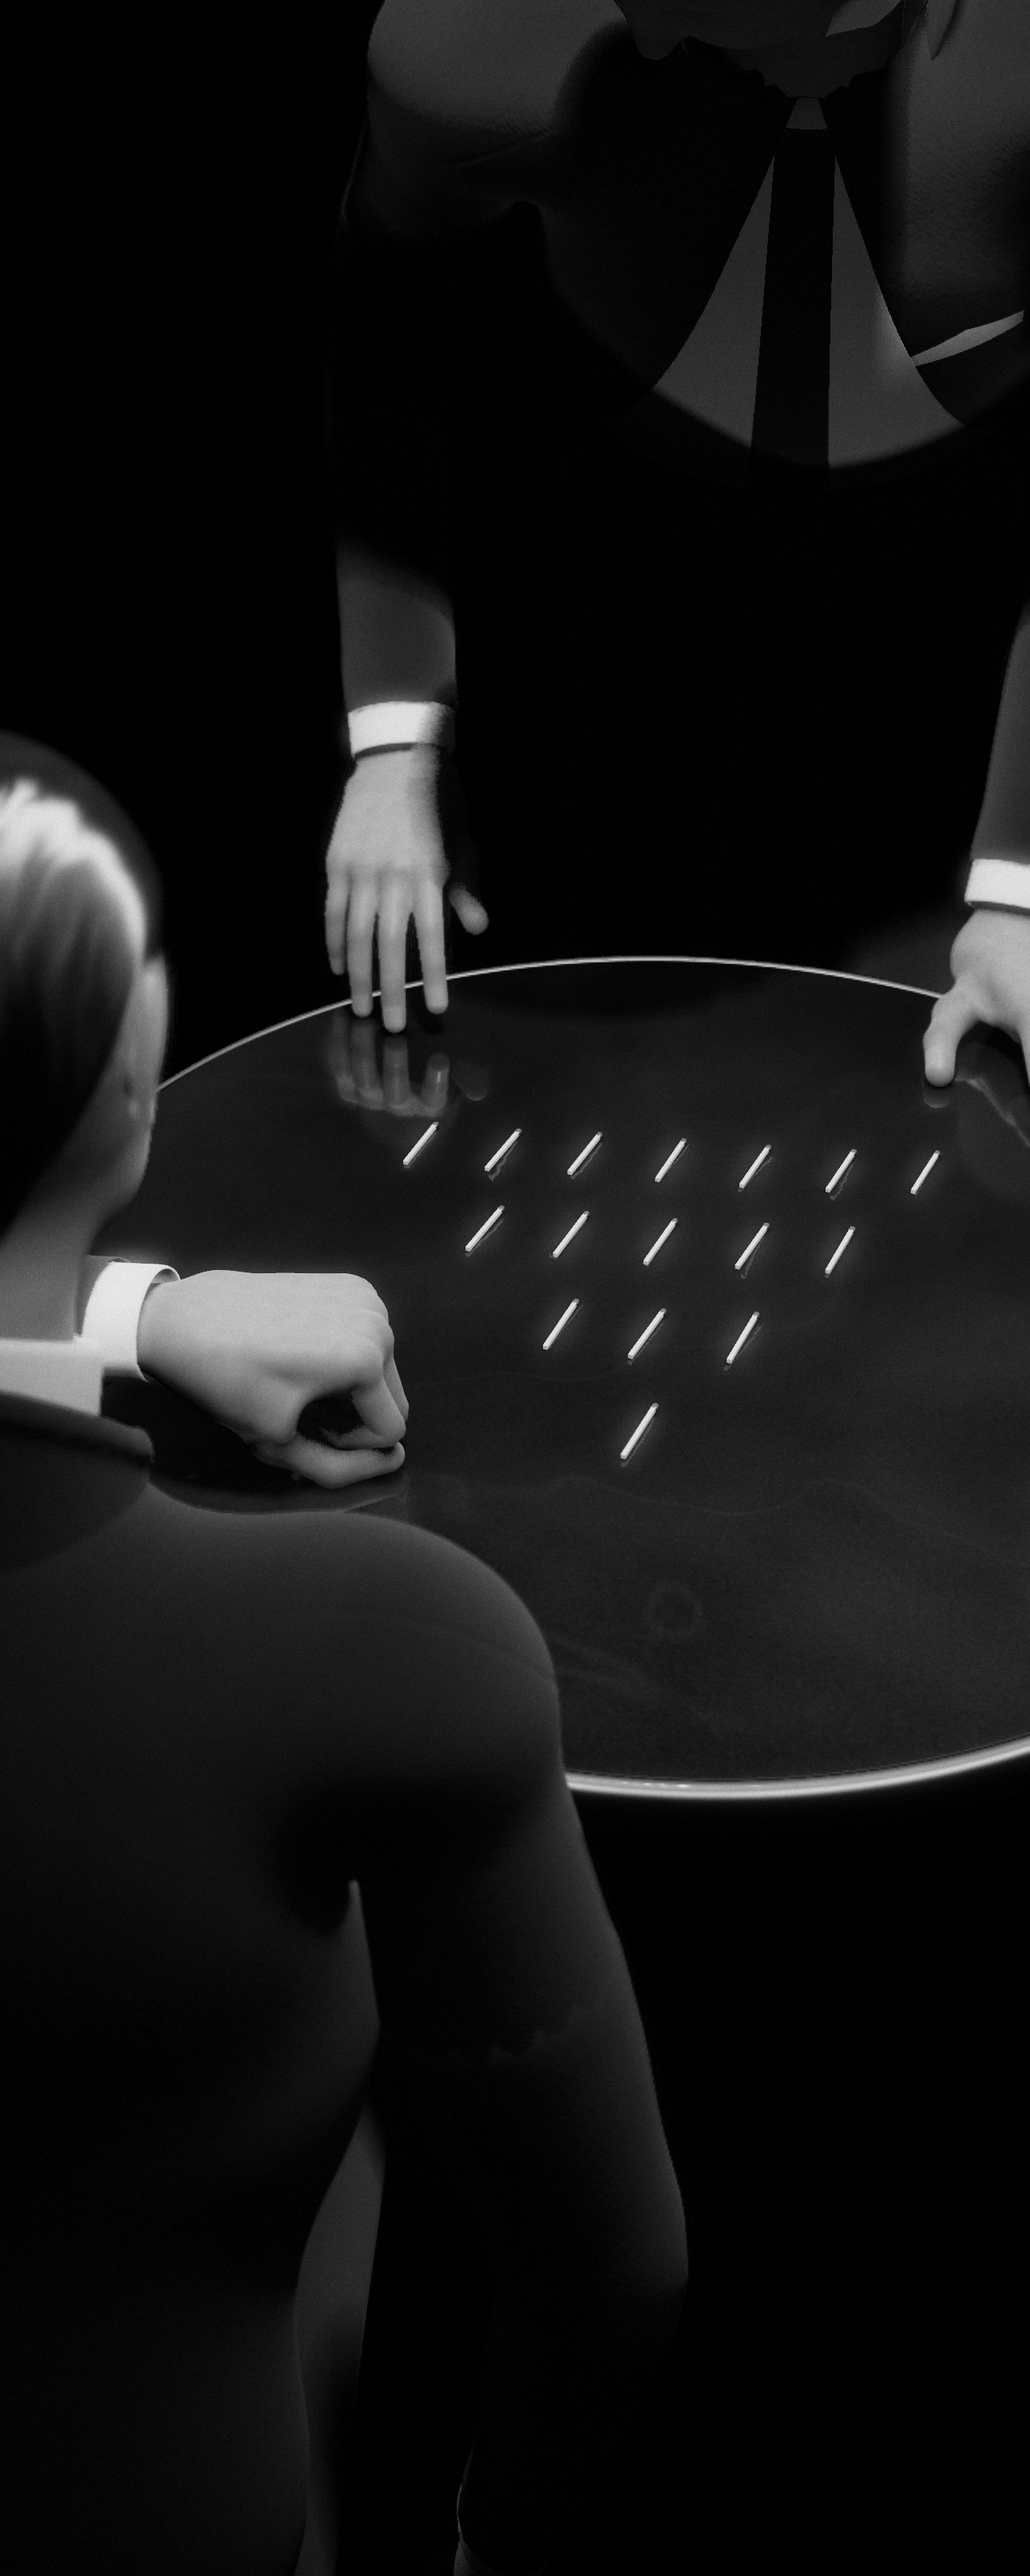
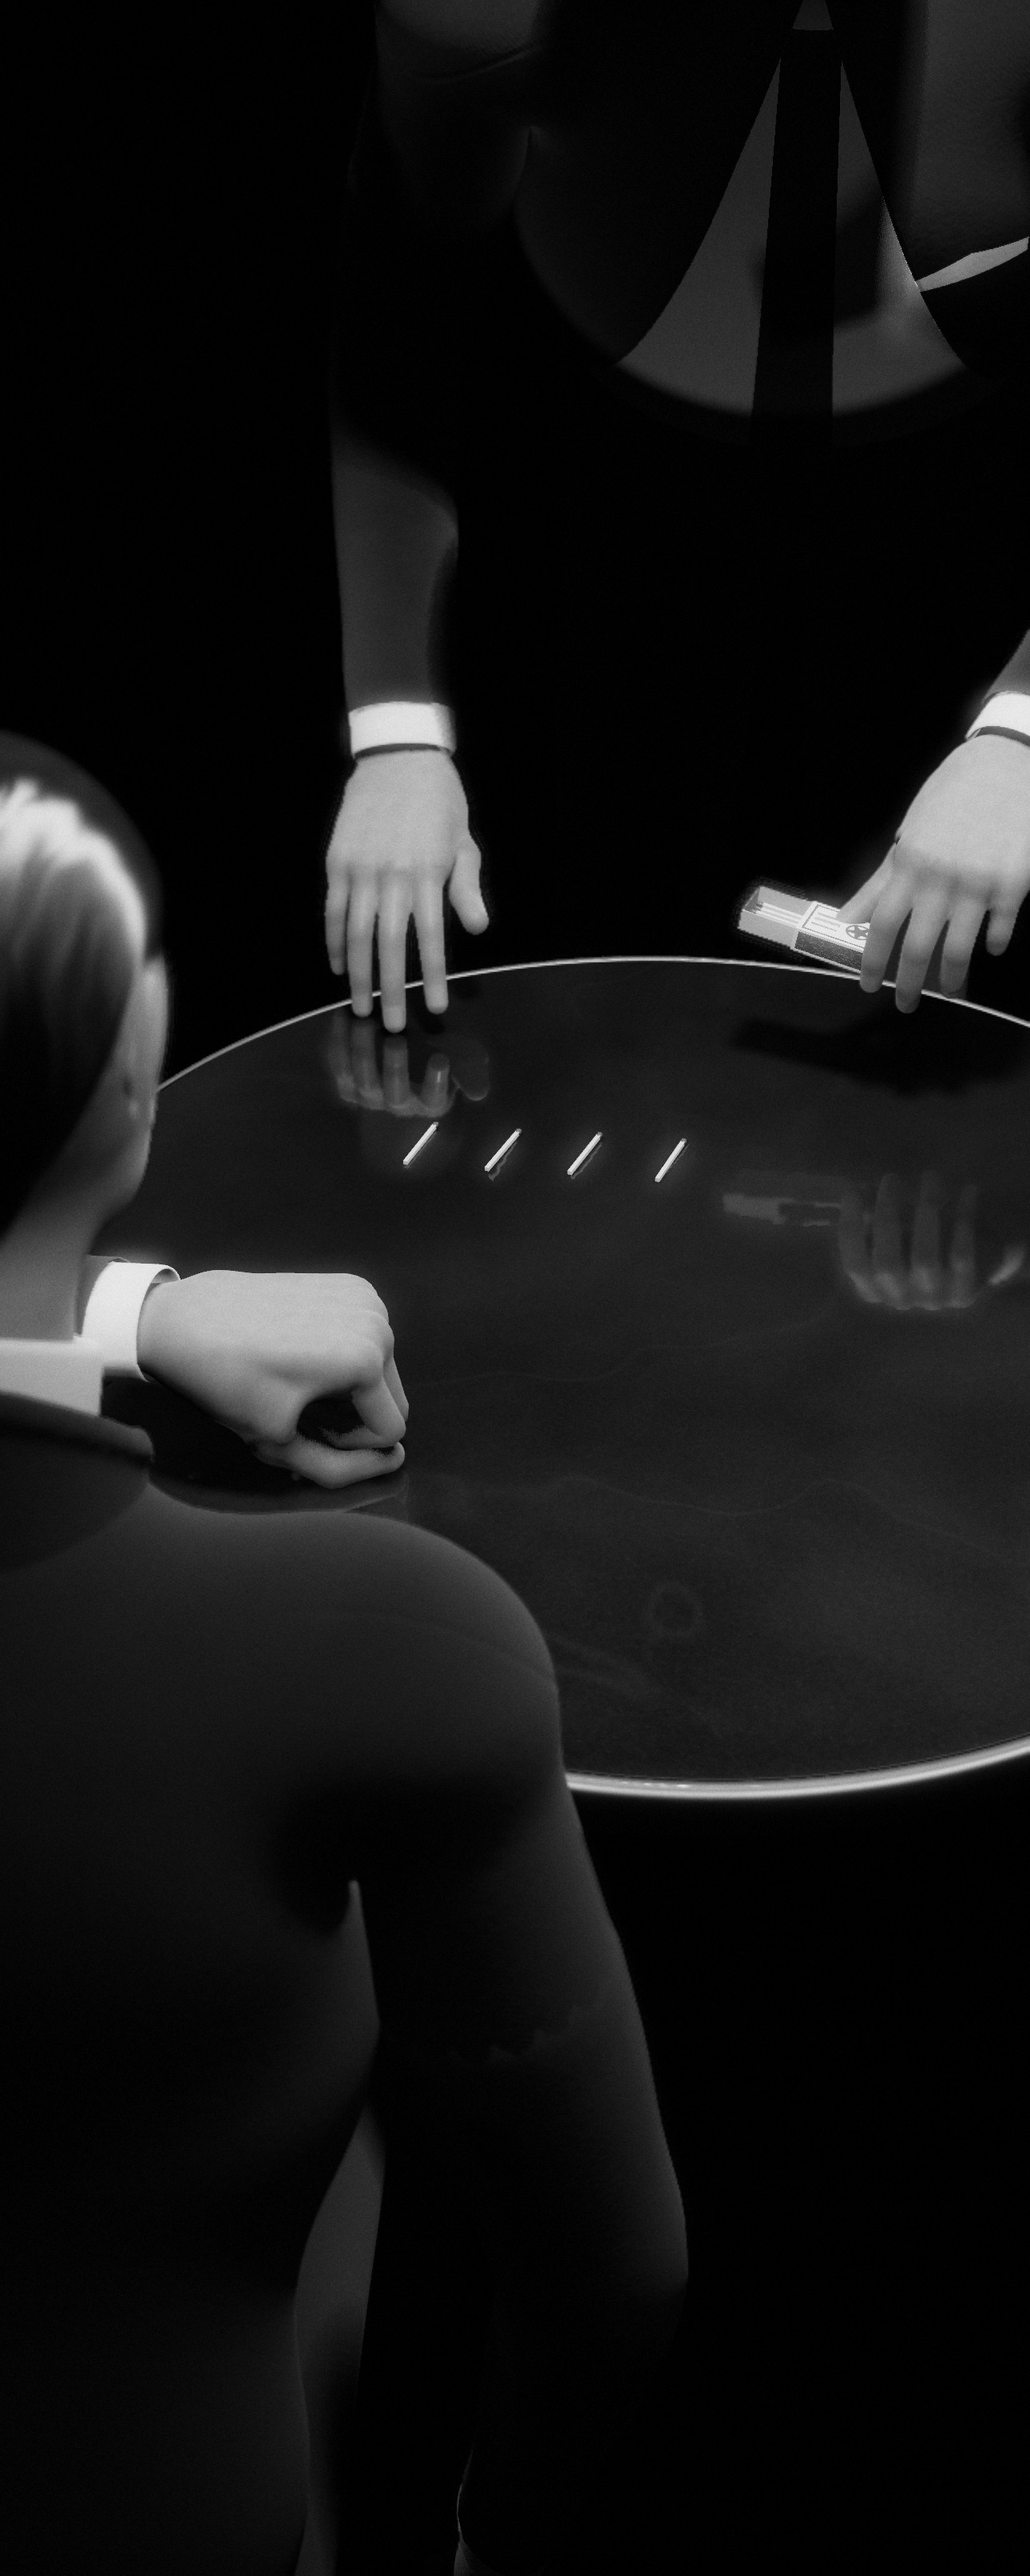
Start Nim midway through laying out the matches

diff --git a/src/director.js b/src/director.js
@@ -8,6 +8,7 @@ import { clamp, lerp, smoothstep, DEG, rand, rng, mulberry32, quatFromYZ } from 
 
 const UP = new THREE.Vector3(0, 1, 0);
 const WORDS = ['none', 'one', 'two', 'three', 'four', 'five', 'six', 'seven'];
+const OPENING_LAID_MATCHES = 4;
 
 // Timing for a strike: a wind-up that eases into a harder, faster stroke without stopping
 // at the top. Speed is two overlapping humps (the lift, then the strike); the result maps a
@@ -454,21 +455,13 @@ export class Director {
     this.box.updateMatrixWorld(true);
     return new THREE.Vector3(x, y, z).applyMatrix4(this.box.matrixWorld);
   }
-  // His left hand takes up the matchbox between thumb and fingers and holds it out over the
-  // board beside his right, the open drawer turned toward it; the right draws the matches
-  // from the drawer a few at a time and lays out `slots`, far row first. Then the box goes
-  // back where it lay.
-  async layOutFromBox(slots = this.matches.slots()) {
-    const L = this.oSupport, R = this.oHand;
-    this.mode = 'intro';
-    this.oActive = R;
+  matchboxGrip() {
     // The grip, built in the hand's own frame: thumb and fingers wrapped round the sleeve's
     // long sides near its closed end, the fingers pitched down and toward the drawer, the back
     // of the hand up. The box's grip point sits between thumb and finger pads, so it is always
     // held, never floating or palmed.
-    const restQ = this.boxRest.quat, restP = this.boxRest.pos;
     const grip = POSES.boxGrip;
-    const loc = tcpLocal(L.side, grip);
+    const loc = tcpLocal(this.oSupport.side, grip);
     // the hand in the box's frame: palm over the top, knuckles along its length, fingers
     // pointing across it (away from him) and curling down its far side, thumb on the near side
     const Yh = new THREE.Vector3(0, -0.3, -1).normalize();
@@ -484,17 +477,6 @@ export class Director {
       const q = boxQ.clone().multiply(relQi);
       return { q, w: boxP.clone().sub(relP.clone().applyQuaternion(q)) };
     };
-    const atRest = handFor(restQ, restP);
-    const qG = atRest.q, wGrip = atRest.w;
-    const gripPt = G.clone().applyQuaternion(restQ).add(restP);
-    const wAbove = wGrip.clone();
-    wAbove.y += 0.05;
-    await L.moveTo({ wrist: wAbove, quat: qG, pose: POSES.boxOpen, poseWin: [0.1, 0.8] });
-    await L.moveTo({ wrist: wGrip, quat: qG, pose: POSES.boxOpen, dur: 0.24, arc: 0 });
-    await L.moveTo({ wrist: wGrip, quat: qG, pose: grip, dur: 0.14, arc: 0, poseWin: [0, 1] });
-    this.boxSettle = null;
-    this.boxHeld = { hand: L, relP, relQ, t: 0, p0: this.box.position.clone(), q0: this.box.quaternion.clone() };
-    this.foley.tick(0.3, this.pan(gripPt));
     // held out over the board beside his right hand: the drawer pushed further out and
     // turned toward it, tipped up a little
     const xb = new THREE.Vector3(-1, 0.16, -0.3).normalize();
@@ -502,9 +484,47 @@ export class Director {
     const yb = new THREE.Vector3().crossVectors(zb, xb);
     const qBoxHold = new THREE.Quaternion().setFromRotationMatrix(new THREE.Matrix4().makeBasis(xb, yb, zb));
     const hold = handFor(qBoxHold, new THREE.Vector3(0.08, TABLE_Y + 0.085, -0.235));
-    const qH = hold.q, wHold = hold.w;
+    const rest = handFor(this.boxRest.quat, this.boxRest.pos);
+    const gripPoint = G.clone().applyQuaternion(this.boxRest.quat).add(this.boxRest.pos);
+    return { grip, relP, relQ, hold, rest, gripPoint };
+  }
+
+  prepareOpening() {
+    if (this.still || this.debugLoop || this.debugPlayer) return;
+    // Begin after the first handful has landed, with the matchbox already in hand.
+    for (const match of this.matches.list.slice(OPENING_LAID_MATCHES)) {
+      match.state = 'box';
+      match.mesh.visible = false;
+    }
+    const { grip, relP, relQ, hold } = this.matchboxGrip();
+    const hand = this.oSupport;
+    hand.wrist.copy(hold.w);
+    hand.quat.copy(hold.q);
+    hand.basePose.set(grip);
+    hand.planted = hand.plantTarget = 0;
+    this.boxHeld = { hand, relP, relQ, t: 1, p0: this.box.position.clone(), q0: this.box.quaternion.clone() };
     this.drawerTarget = 0.014;
-    await L.moveTo({ wrist: wHold, quat: qH, pose: grip, poseWin: [0, 1], speed: 1.15 });
+  }
+
+  // Lay out slots from the drawer, far row first, then return the matchbox.
+  async layOutFromBox(slots = this.matches.slots()) {
+    const L = this.oSupport, R = this.oHand;
+    this.mode = 'intro';
+    this.oActive = R;
+    const { grip, relP, relQ, rest, hold, gripPoint } = this.matchboxGrip();
+    const qG = rest.q, wGrip = rest.w;
+    const wAbove = wGrip.clone();
+    wAbove.y += 0.05;
+    if (!this.boxHeld) {
+      await L.moveTo({ wrist: wAbove, quat: qG, pose: POSES.boxOpen, poseWin: [0.1, 0.8] });
+      await L.moveTo({ wrist: wGrip, quat: qG, pose: POSES.boxOpen, dur: 0.24, arc: 0 });
+      await L.moveTo({ wrist: wGrip, quat: qG, pose: grip, dur: 0.14, arc: 0, poseWin: [0, 1] });
+      this.boxSettle = null;
+      this.boxHeld = { hand: L, relP, relQ, t: 0, p0: this.box.position.clone(), q0: this.box.quaternion.clone() };
+      this.foley.tick(0.3, this.pan(gripPoint));
+      this.drawerTarget = 0.014;
+      await L.moveTo({ wrist: hold.w, quat: hold.q, pose: grip, poseWin: [0, 1], speed: 1.15 });
+    }
     // the rows, far to near
     const order = slots.slice().sort((s1, s2) => s1.row - s2.row || s1.col - s2.col);
     const inBox = () => this.matches.list.filter((m) => m.state === 'box');
@@ -541,7 +561,7 @@ export class Director {
     await L.moveTo({ wrist: wGrip.clone().setY(wGrip.y + 0.001), quat: qG, pose: grip, dur: 0.22, arc: 0 });
     this.boxHeld = null;
     this.boxSettle = { t: 0, p0: this.box.position.clone(), q0: this.box.quaternion.clone() };
-    this.foley.tap(0.35, this.pan(gripPt));
+    this.foley.tap(0.35, this.pan(gripPoint));
     await L.moveTo({ wrist: wGrip, quat: qG, pose: POSES.boxOpen, dur: 0.14, arc: 0, poseWin: [0, 1] });
     await L.moveTo({ wrist: wAbove, quat: qG, pose: POSES.boxOpen, dur: 0.25, arc: 0 });
     await Promise.all([back, this.goRest(L)]);
@@ -886,6 +906,8 @@ export class Director {
       await this.sched.wait(0.6);
       return this.debugLoop ? this.runDebugLoop() : this.runPlayerLoop();
     }
+    await this.layOutFromBox(this.matches.slots().slice(OPENING_LAID_MATCHES));
+    await this.sched.wait(0.6);
     for (;;) {
       await this.playGame();
       await this.sched.wait(1.6);

diff --git a/src/main.js b/src/main.js
@@ -457,6 +457,7 @@ function build() {
   director.still = params.has('still');
   ui.onConfirm = () => director.confirm();
   ui.onClear = () => director.clearSelection();
+  director.prepareOpening();
 
   if (params.has('gallery')) buildGallery();
   resize();
